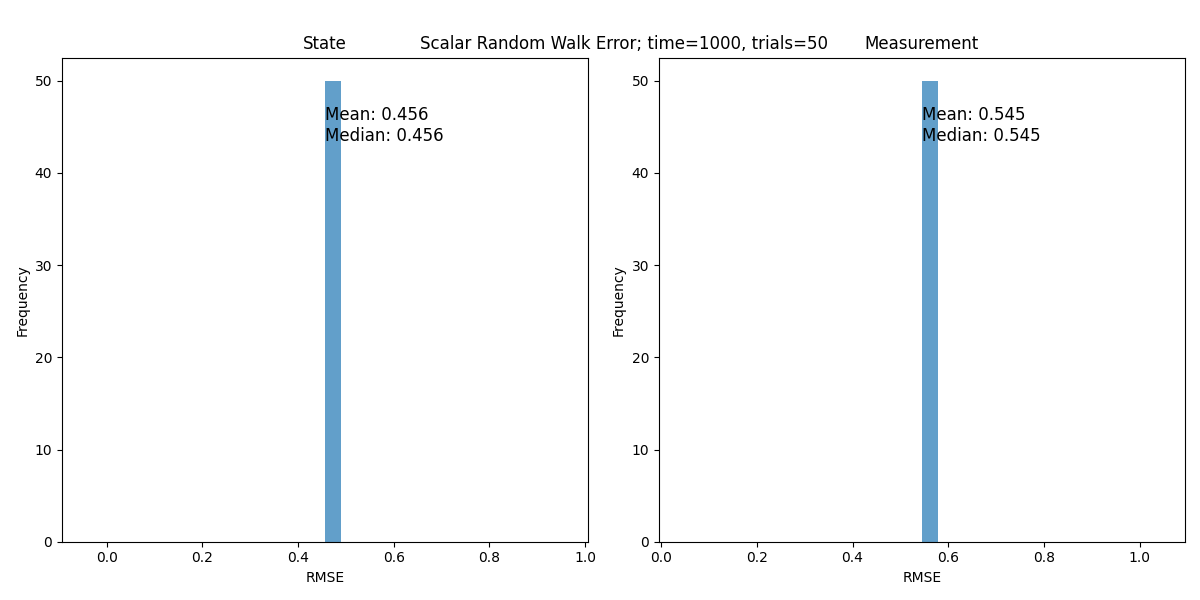
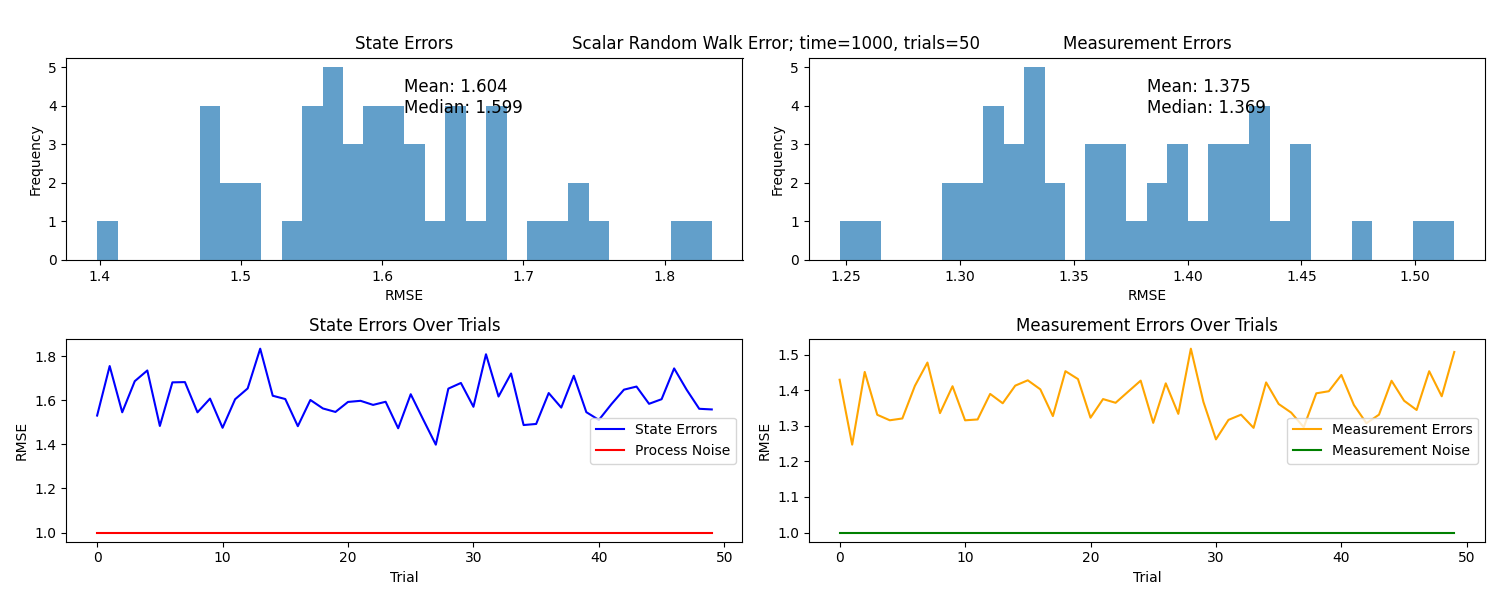
added uncertainty to Ms

diff --git a/Summer Research/_07b_KFOnGenerativeModels.py b/Summer Research/_07b_KFOnGenerativeModels.py
@@ -32,30 +32,31 @@ def scalarRandomWalk(trials=10, r=1, q=1):
 stateErrors = []
 measurementErrors = []
 
-for trial in range(kTrials):
+for trial in range(0):
     xs, ys = scalarRandomWalk(trials=time,r=r,q=q)
-
     x = np.array([xs[0]])
     P = np.array([[100]])  # Initial state covariance
     F = np.array([[1.]])  # State transition matrix
-    Q = np.array([[1]])  # Process noise covariance
+    Q = np.array([[q]])  # Process noise covariance
     H = np.array([[1.]])  # Observation matrix
-    R = np.array([[1]])  # Measurement noise covariance
+    R = np.array([[r]])  # Measurement noise covariance
 
 
     kf = KalmanFilter(x,P,F,H,Q,R)
 
     Ms, Covs= kf.batch_filter(ys)
+
+    MsX = [ele + np.random.normal(0, q) for ele in Ms]
+    MsY = [ele + np.random.normal(0, r) for ele in Ms]
     #Ms= kf.rts_smoother(Ms, Covs)
+    #if trial==0 :
+        #plotMSE(xs, ys, Ms, r, q, save=True, name="_07p1a_scalar_random_walk.png")
 
-    if trial==0 :
-        plotMSE(xs, ys, Ms, r, q, save=False, name="_07p1a_scalar_random_walk.png")
+    stateErrors.append(mean_squared_error(xs, MsX))
+    measurementErrors.append(mean_squared_error(ys, MsY))
 
-    stateErrors.append(mean_squared_error(xs, Ms))
-    measurementErrors.append(mean_squared_error(ys, Ms))
+#plotHist(stateErrors,measurementErrors, r, q, time, kTrials, save=True, name="_07p1b_scalar_random_walk_errors.png")
 
-plotHist(stateErrors,measurementErrors, r, q, time, kTrials, save=False, name="_07p1b_scalar_random_walk_errors.png")
-raise ValueError
 '''
 7.2 Constant Velocity Model
 x = [px,vx,py,vy]
@@ -76,95 +77,37 @@ def constantVelocityModel(trials=10, dt=1, r=1, q=1):
         ys.append(y_observed)
     return xs, ys
 dt=1
-xs, ys = constantVelocityModel(trials=time,dt=dt)
 measurementErrorsX = []
 stateErrorsX = []
 measurementErrorsY = []
 stateErrorsY = []
 for trial in range(kTrials):
-    # Initialize Kalman Filter
-    kf = KalmanFilter(dim_x=4, dim_z=2)
-    kf.x = np.zeros(4)  
-    kf.P = np.eye(4) * 500 
-    kf.F = np.array([[1, dt, 0, 0], [0, 1, 0, 0], [0, 0, 1, dt], [0, 0, 0, 1]])  # state transition matrix
-    kf.H = np.array([[1, 0, 0, 0], [0, 0, 1, 0]])
-    kf.R = np.eye(2)
-    kf.Q = np.eye(4) * 1 
-    Xs, Covs, _, _ = kf.batch_filter(ys)
-    Ms, Ps, _, _ = kf.rts_smoother(Xs, Covs)
+    xs, ys = constantVelocityModel(trials=time,dt=dt)
+    x = np.zeros(4)  
+    P = np.eye(4) * 500 
+    F = np.array([[1, dt, 0, 0], [0, 1, 0, 0], [0, 0, 1, dt], [0, 0, 0, 1]])
+    H = np.array([[1, 0, 0, 0], [0, 0, 1, 0]])
+    R = np.eye(2)
+    Q = np.eye(4) * 1 
+    kf = KalmanFilter(x, P, F, H, Q, R)
 
-    stateErrorsX.append(mean_squared_error([x[0] for x in xs], [m[0] for m in Ms]))
-    stateErrorsY.append(mean_squared_error([x[2] for x in xs], [m[2] for m in Ms]))
-    measurementErrorsX.append(mean_squared_error([y[0] for y in ys], [m[0] for m in Ms]))
-    measurementErrorsY.append(mean_squared_error([y[1] for y in ys], [m[2] for m in Ms]))
+    Ms, Covs = kf.batch_filter(ys)
 
-fig = plt.figure(figsize=(13,10))
-plt.axis("off")
-plt.title("Constant Velocity Model")
-ax1 = fig.add_subplot(221)
-ax2 = fig.add_subplot(222)
-ax3 = fig.add_subplot(223)
-ax4 = fig.add_subplot(224)
-t = np.linspace(0, dt * len(xs), len(xs))
-ax1.set_xlabel("Time (s)")
-ax2.set_xlabel("Time (s)")
-ax3.set_xlabel("Time (s)")
-ax4.set_xlabel("Time (s)")
+    MsX = [ele + np.random.normal(0, q) for ele in Ms]
+    MsY = [ele + np.random.normal(0, r) for ele in Ms]
 
-ax1.plot(t, [x[0] for x in xs], label="State", color='blue')
-ax1.plot(t, [y[0] for y in ys], label="Obs",color='orange')
-ax2.plot(t, [x[2] for x in xs],color='blue')
-ax2.plot(t, [y[1] for y in ys],color='orange')
-ax1.plot(t, [m[0] for m in Ms],label="Kalman",color='green')
-ax2.plot(t, [m[2] for m in Ms],color='green')
+    stateErrorsX.append(mean_squared_error([x[0] for x in xs], [m[0] for m in MsX]))
+    stateErrorsY.append(mean_squared_error([x[2] for x in xs], [m[2] for m in MsY]))
+    measurementErrorsX.append(mean_squared_error([y[0] for y in ys], [m[0] for m in MsX]))
+    measurementErrorsY.append(mean_squared_error([y[1] for y in ys], [m[2] for m in MsY]))
+    if trial==0:
+        plotMSE([x[0] for x in xs], [y[0] for y in ys], [m[0] for m in MsX], r, q, save=False, name="_07p2a_constant_velocity_model.png",title="Constant Velocity Model X")
+        plotMSE([x[2] for x in xs], [y[1] for y in ys], [m[2] for m in MsY], r, q, save=False, name="_07p2b_constant_velocity_model_y.png",title="Constant Velocity Model Y")
+plotHist(stateErrorsX, measurementErrorsX, r, q, time, kTrials, save=False, name="_07p2c_constant_velocity_model_x_errors.png",title="Constant Velocity Model X Errors")
+plotHist(stateErrorsY, measurementErrorsY, r, q, time, kTrials, save=False, name="_07p2d_constant_velocity_model_y_errors.png",title="Constant Velocity Model Y Errors")
 
-ax3.plot(t, [x[1] for x in xs],color='blue')
-ax3.plot(t, [m[1] for m in Ms],color='green')
-ax4.plot(t, [x[3] for x in xs],color='blue')
-ax4.plot(t, [m[3] for m in Ms],color='green')
+raise ValueError
 
-ax1.set_title("X-Position")
-ax2.set_title("Y-Position")
-ax3.set_title("X-Velocity")
-ax4.set_title("Y-Velocity")
-fig.legend(loc="lower right")
-#plt.savefig("_07p2a_constant_velocity_model.png")
-#plt.show()
-
-fig = plt.figure(figsize=(12, 6))
-plt.title(f"Constant Velocity Model Error; time={time}, trials={kTrials}")
-plt.axis("off")
-ax1 = fig.add_subplot(221)
-ax1.hist(stateErrorsX, bins=30, alpha=0.7)
-ax1.set_title("State X")
-ax1.set_xlabel("RMSE")
-ax1.set_ylabel("Frequency")
-ax1.text(0.5, 0.9, f"Mean: {np.mean(stateErrorsX):.3f}\nMedian: {np.median(stateErrorsX):.3f}",
-             transform=ax1.transAxes, fontsize=12, verticalalignment='top')
-ax2 = fig.add_subplot(222)
-ax2.hist(stateErrorsY, bins=30, alpha=0.7)
-ax2.set_title("State Y")
-ax2.set_xlabel("RMSE")
-ax2.set_ylabel("Frequency")
-ax2.text(0.5, 0.9, f"Mean: {np.mean(stateErrorsY):.3f}\nMedian: {np.median(stateErrorsY):.3f}",
-                transform=ax2.transAxes, fontsize=12, verticalalignment='top')
-ax3 = fig.add_subplot(223)
-ax3.hist(measurementErrorsX, bins=30, alpha=0.7)
-ax3.set_title("Measurement X")
-ax3.set_xlabel("RMSE")
-ax3.set_ylabel("Frequency")
-ax3.text(0.5, 0.9, f"Mean: {np.mean(measurementErrorsX):.3f}\nMedian: {np.median(measurementErrorsX):.3f}", 
-         transform=ax3.transAxes, fontsize=12, verticalalignment='top')
-ax4 = fig.add_subplot(224)
-ax4.hist(measurementErrorsY, bins=30, alpha=0.7)
-ax4.set_title("Measurement Y")
-ax4.set_xlabel("RMSE")
-ax4.set_ylabel("Frequency")
-ax4.text(0.5, 0.9, f"Mean: {np.mean(measurementErrorsY):.3f}\nMedian: {np.median(measurementErrorsY):.3f}",
-         transform=ax4.transAxes, fontsize=12, verticalalignment='top')
-plt.tight_layout()
-#plt.savefig("_07p2b_constant_velocity_model_errors.png")
-#plt.show()
 '''
 7.3 Mass-Spring Chain with N identical masses
 x = [p1(t) v1(t) ... pn(t) vn(t)]

diff --git a/Defined/Helpers/plotting.py b/Defined/Helpers/plotting.py
@@ -2,39 +2,42 @@ import matplotlib.pyplot as plt
 import numpy as np
 from sklearn.metrics import mean_squared_error
 
-def plotMSE(xs, ys, Ms, r, q, save=False, name="smth.png"):
+def plotMSE(xs, ys, MsX, MsY, r, q, save=False, name="smth.png",title="Kalman Filter MSE"):
     fig = plt.figure(figsize=(10, 6))
     ax1 = fig.add_subplot(131)
     ax2 = fig.add_subplot(132)
     ax3 = fig.add_subplot(133)
-    ax1.set_title("Scalar Random Walk")
+    ax1.set_title(title)
     ax1.plot(xs, label='True States', color='blue')
     ax1.plot(ys, label='Observations', color='orange')
-    ax1.plot(Ms, label='Kalman Filter Estimate', color='green')
-    ax1.set_title("Scalar Random Walk")
+    ax1.plot(Ms, label='Kalman Filter Estimate (Observation)', color='green')
+    ax1.set_title("State vs Observation vs Estimate")
     ax1.set_xlabel("Time Steps")
     ax1.legend()
     ax2.set_title("State MSE over Time")
-    ax2.plot([mean_squared_error(xs[:i+1], Ms[:i+1]) for i in range(len(xs))], label='RMSE', color='blue')
+
+    ax2.plot([mean_squared_error(xs[:i+1], MsX[:i+1]) for i in range(len(xs))], label='MSE', color='blue')
     ax2.plot([r]*len(xs), label='Process Noise', color='red', linestyle='--')
     ax2.set_xlabel("Time Steps")
-    ax2.set_ylabel("RMSE")
+    ax2.set_ylabel("MSE")
     ax2.legend()
     ax3.set_title("Measurement MSE over Time")
-    ax3.plot([mean_squared_error(ys[:i+1], Ms[:i+1]) for i in range(len(ys))], label='RMSE', color='blue')
+
+
+    ax3.plot([mean_squared_error(ys[:i+1], MsY[:i+1]) for i in range(len(ys))], label='MSE', color='blue')
     ax3.plot([q]*len(ys), label='Measurement Noise', color='red', linestyle='--')
     ax3.set_xlabel("Time Steps")
-    ax3.set_ylabel("RMSE")
+    ax3.set_ylabel("MSE")
     ax3.legend()
     plt.tight_layout()
     if save:
         plt.savefig(name)
     plt.show()
 
-def plotHist(stateErrors,measurementErrors, r, q, time,kTrials,save=False,name="smth.png"):
+def plotHist(stateErrors,measurementErrors, r, q, time,kTrials,save=False,name="smth.png",title="Kalman Filter Error Histograms"):
     fig = plt.figure(figsize=(15, 6))
     plt.axis("off")
-    plt.title(f"Scalar Random Walk Error; time={time}, trials={kTrials}")
+    plt.title(f"{title}; time={time}, trials={kTrials}")
     ax1 = fig.add_subplot(221)
     ax2 = fig.add_subplot(222)
     ax3 = fig.add_subplot(223)
@@ -42,26 +45,26 @@ def plotHist(stateErrors,measurementErrors, r, q, time,kTrials,save=False,name="
 
     ax1.hist(stateErrors, bins=30, alpha=0.7)
     ax1.set_title("State Errors")
-    ax1.set_xlabel("RMSE")
+    ax1.set_xlabel("MSE")
     ax1.set_ylabel("Frequency")
     ax1.text(0.5, 0.9, f"Mean: {np.mean(stateErrors):.3f}\nMedian: {np.median(stateErrors):.3f}",
                 transform=ax1.transAxes, fontsize=12, verticalalignment='top')
     ax2.hist(measurementErrors, bins=30, alpha=0.7)
     ax2.set_title("Measurement Errors")
-    ax2.set_xlabel("RMSE")
+    ax2.set_xlabel("MSE")
     ax2.set_ylabel("Frequency")
     ax2.text(0.5, 0.9, f"Mean: {np.mean(measurementErrors):.3f}\nMedian: {np.median(measurementErrors):.3f}",
                 transform=ax2.transAxes, fontsize=12, verticalalignment='top')
     ax3.plot(stateErrors, label='State Errors', color='blue')
     ax3.set_title("State Errors Over Trials")
     ax3.set_xlabel("Trial")
-    ax3.set_ylabel("RMSE")
+    ax3.set_ylabel("MSE")
     ax3.plot([r]*kTrials, label='Process Noise', color='red')
     ax3.legend()
     ax4.plot(measurementErrors, label='Measurement Errors', color='orange')
     ax4.set_title("Measurement Errors Over Trials")
     ax4.set_xlabel("Trial")
-    ax4.set_ylabel("RMSE")
+    ax4.set_ylabel("MSE")
     ax4.plot([q]*kTrials, label='Measurement Noise', color='green')
     ax4.legend()
     plt.tight_layout()
